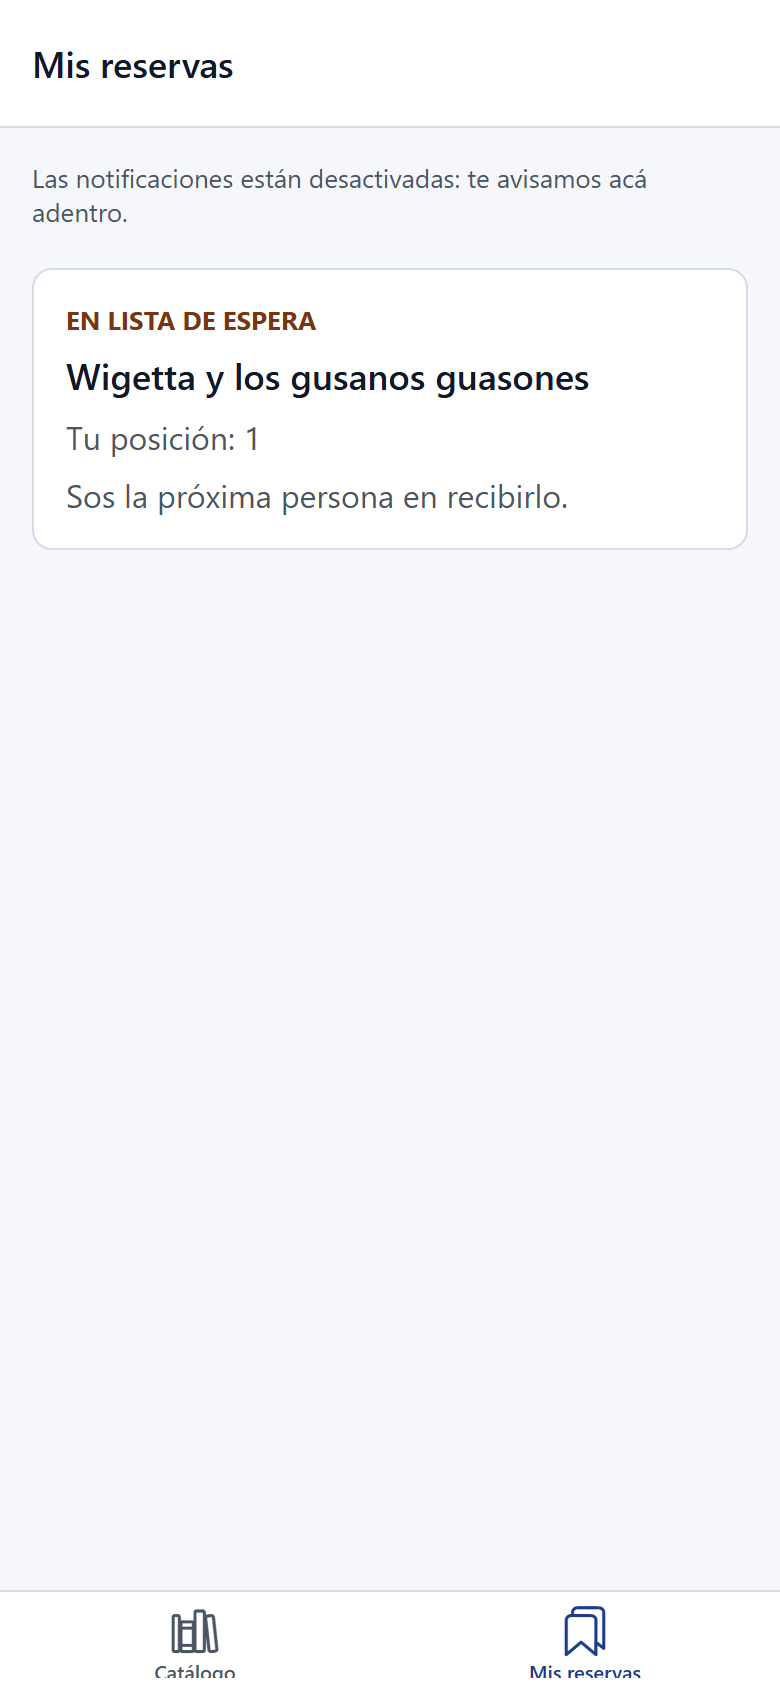
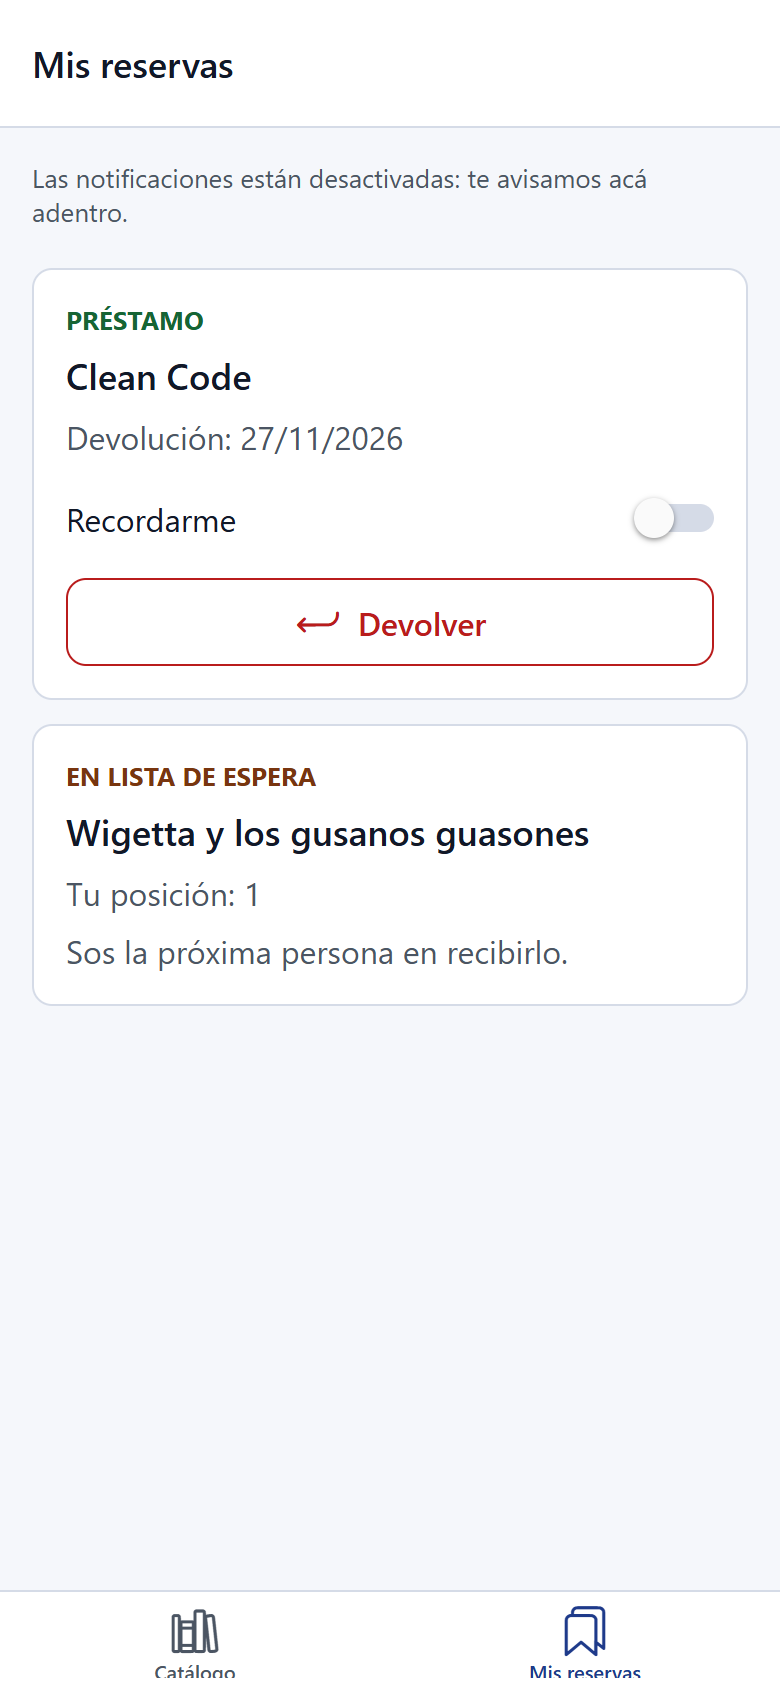
Agrega las capturas de pantalla y las describe en el README

diff --git a/README.md b/README.md
@@ -206,6 +206,32 @@ Tests:       24 passed, 24 total
 
 ## Capturas
 
-Pendientes de agregar desde el teléfono (carpeta `capturas/`): Catálogo cargando, con error y con datos;
-buscador; detalle inexistente; reserva con y sin ejemplares; escáner en sus cuatro estados; notificación
-recibida; mostrador antes y después de “Entregar al siguiente”; pantalla 404.
+Carpeta [`capturas/`](./capturas). Se tomaron con la app real corriendo en su versión web (React Native
+Web, `npx expo export --platform web`) en un navegador Chromium sin interfaz, con tamaño de celular
+(390 × 844):
+
+| Archivo | Qué muestra |
+|---|---|
+| `01-catalogo-cargando.png` | Catálogo mientras responde la API (800 ms) |
+| `02-catalogo-error.png` | Catálogo con error y “Reintentar” (se forzó el fallo de la API simulada) |
+| `03-catalogo-con-datos.png` | Catálogo con datos y “Vistos recientemente” |
+| `04-buscador.png` | Buscador con `q=borges` |
+| `05-detalle-inexistente.png` | `/libro/123` |
+| `06-detalle-libro.png` | Detalle de *La metamorfosis* |
+| `07-reserva-con-ejemplares.png`, `08-reserva-sin-ejemplares.png` | Confirmación con y sin ejemplares |
+| `09-mis-reservas.png` | Un préstamo y una reserva en espera |
+| `10-escaner-cargando.png`, `11-escaner-preguntable.png`, `12-escaner-concedido.png`, `13-escaner-bloqueado.png` | Escáner en sus cuatro estados |
+| `11b-pantalla-previa-camara.png` | Pantalla previa al permiso de cámara |
+| `13b-login.png`, `14-mostrador-antes.png`, `15-mostrador-despues.png` | Login y mostrador antes y después de “Entregar al siguiente” |
+| `16-aviso-dentro-de-la-app.png` | Entrega sin permiso de notificaciones: aviso dentro de la app |
+| `17-pagina-404.png` | Pantalla 404 |
+
+Aclaraciones sobre cómo se forzaron algunos estados en el navegador:
+
+- **Escáner cargando**: se dejó pendiente la consulta del permiso para poder fotografiar ese estado,
+  que en el teléfono dura un instante.
+- **Escáner concedido**: la imagen verde es la cámara de prueba del navegador, no una cámara real.
+- **Escáner bloqueado**: en web, `expo-camera` siempre responde `canAskAgain: true`, así que se simuló la
+  respuesta que da Android después de dos negativas (`denied` y `canAskAgain: false`).
+- **Notificación recibida**: falta. `expo-notifications` no muestra notificaciones locales en web; esa
+  captura hay que tomarla en el teléfono con Expo Go (activar “Recordarme” y esperar 15 segundos).
